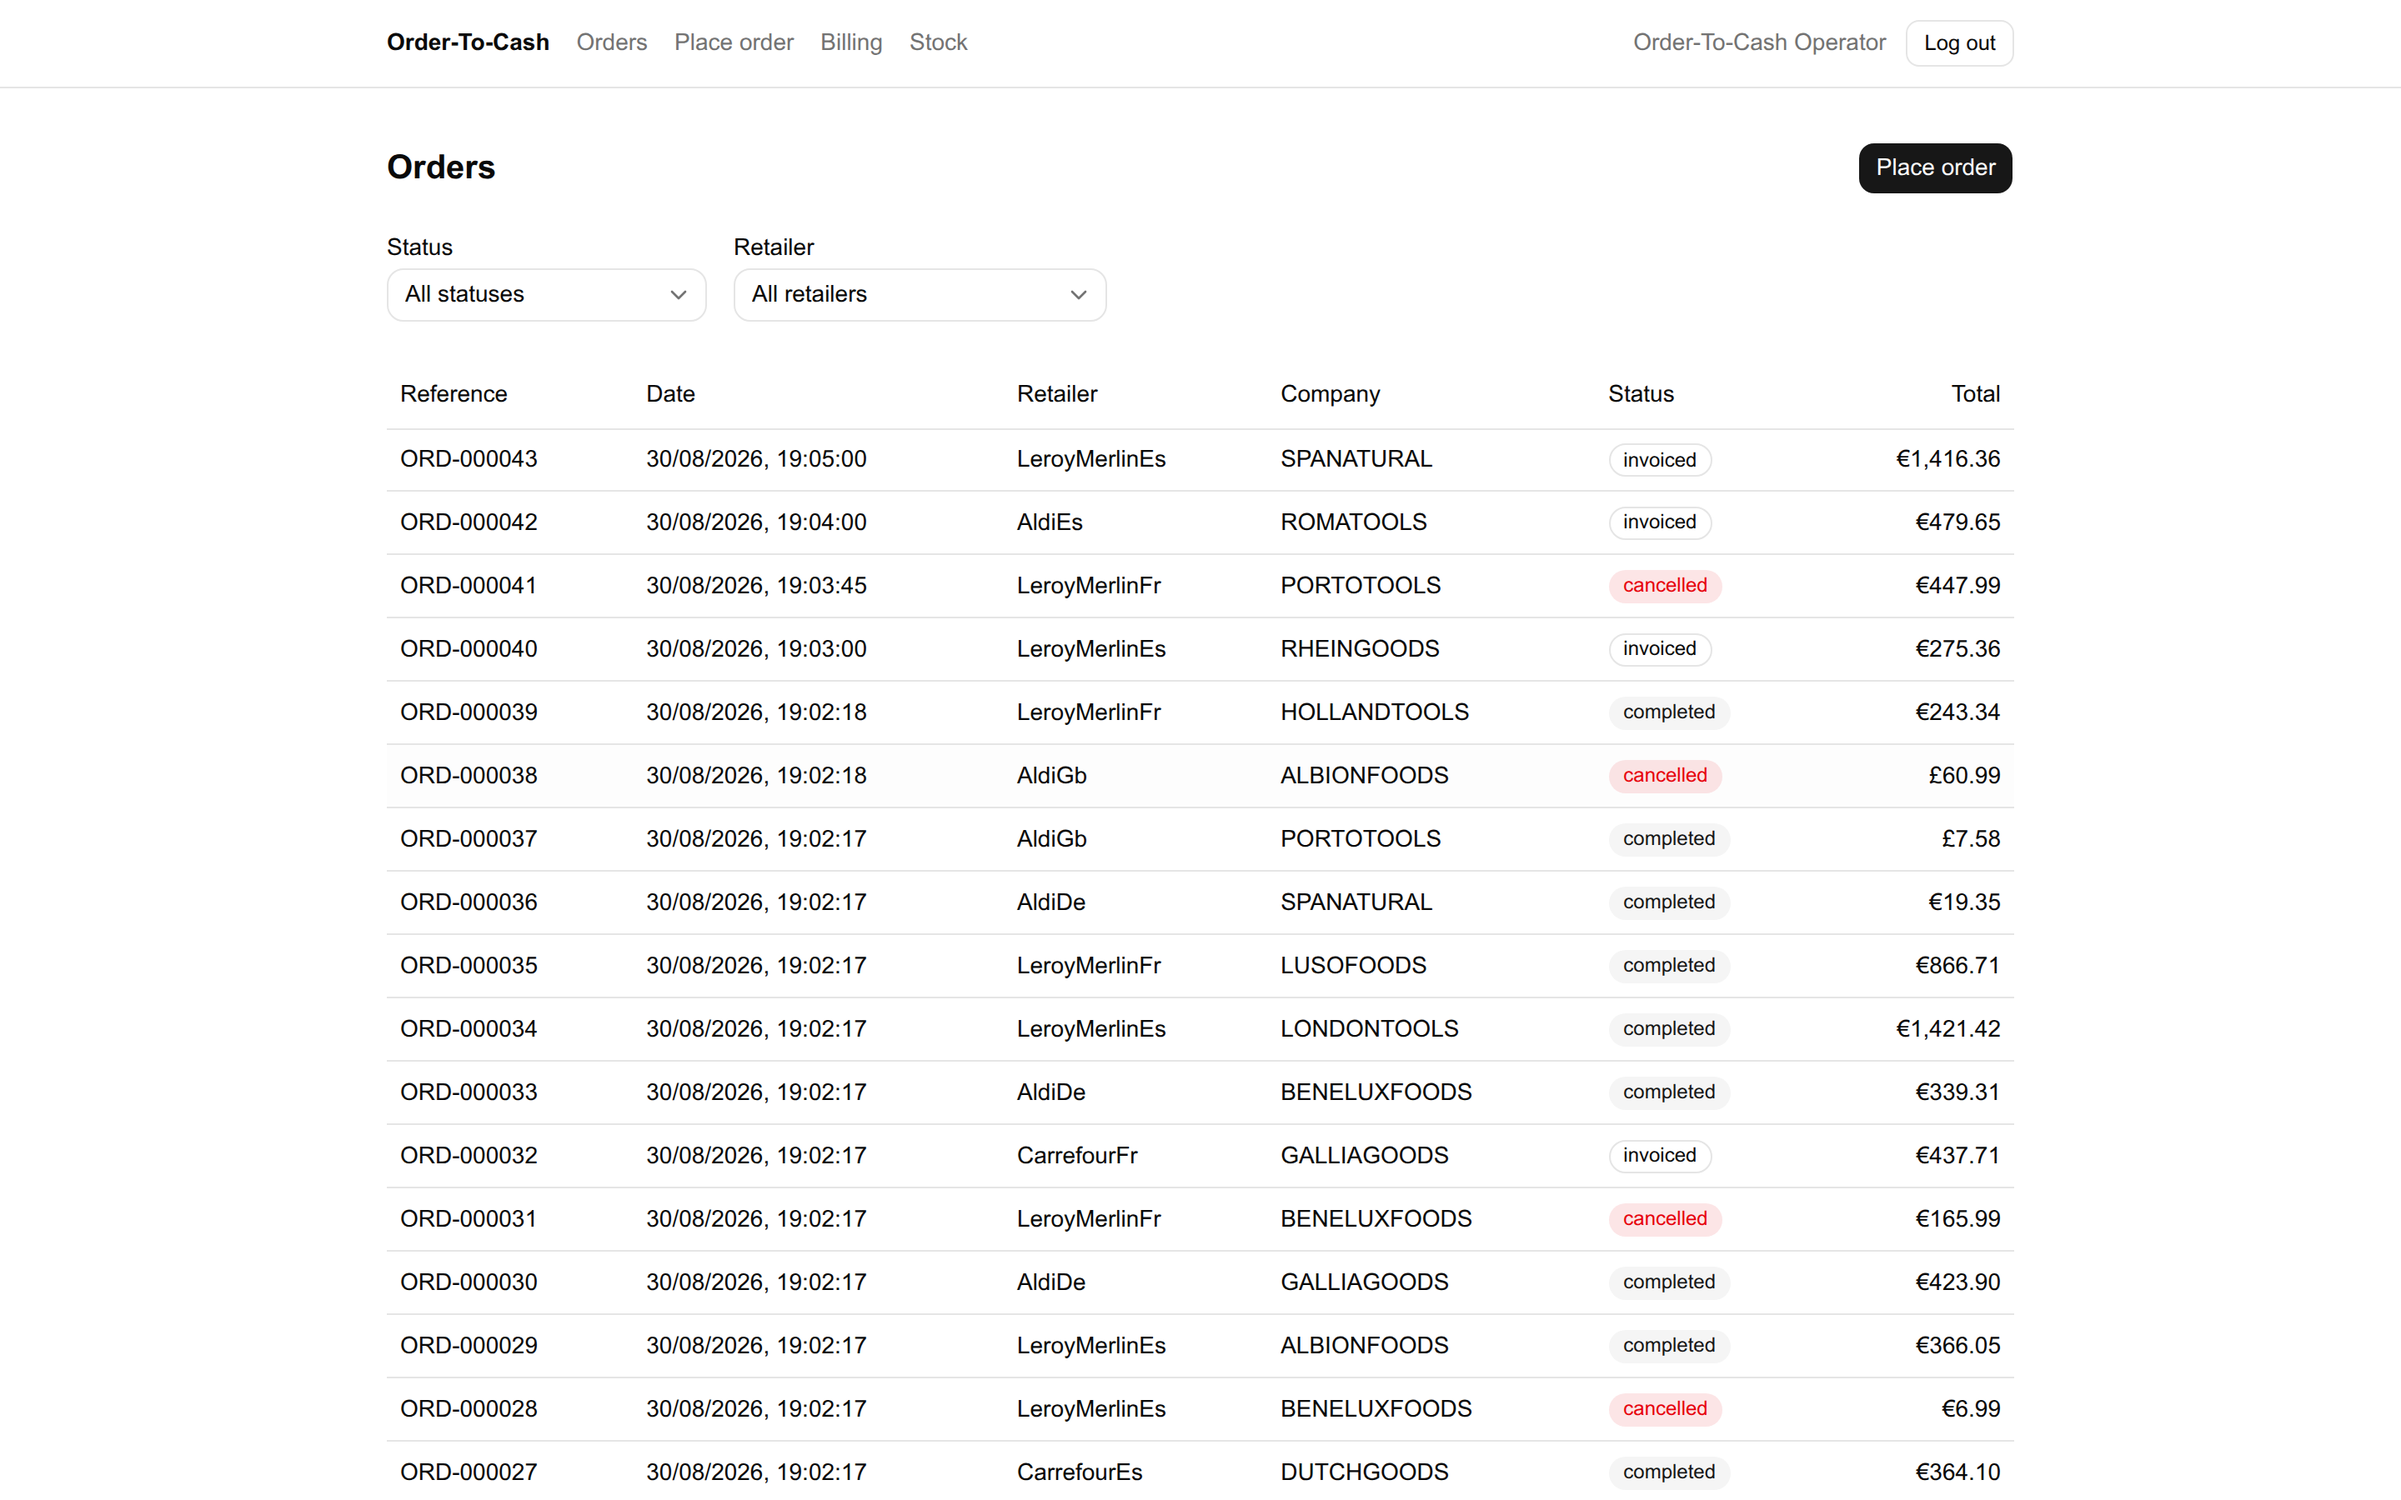
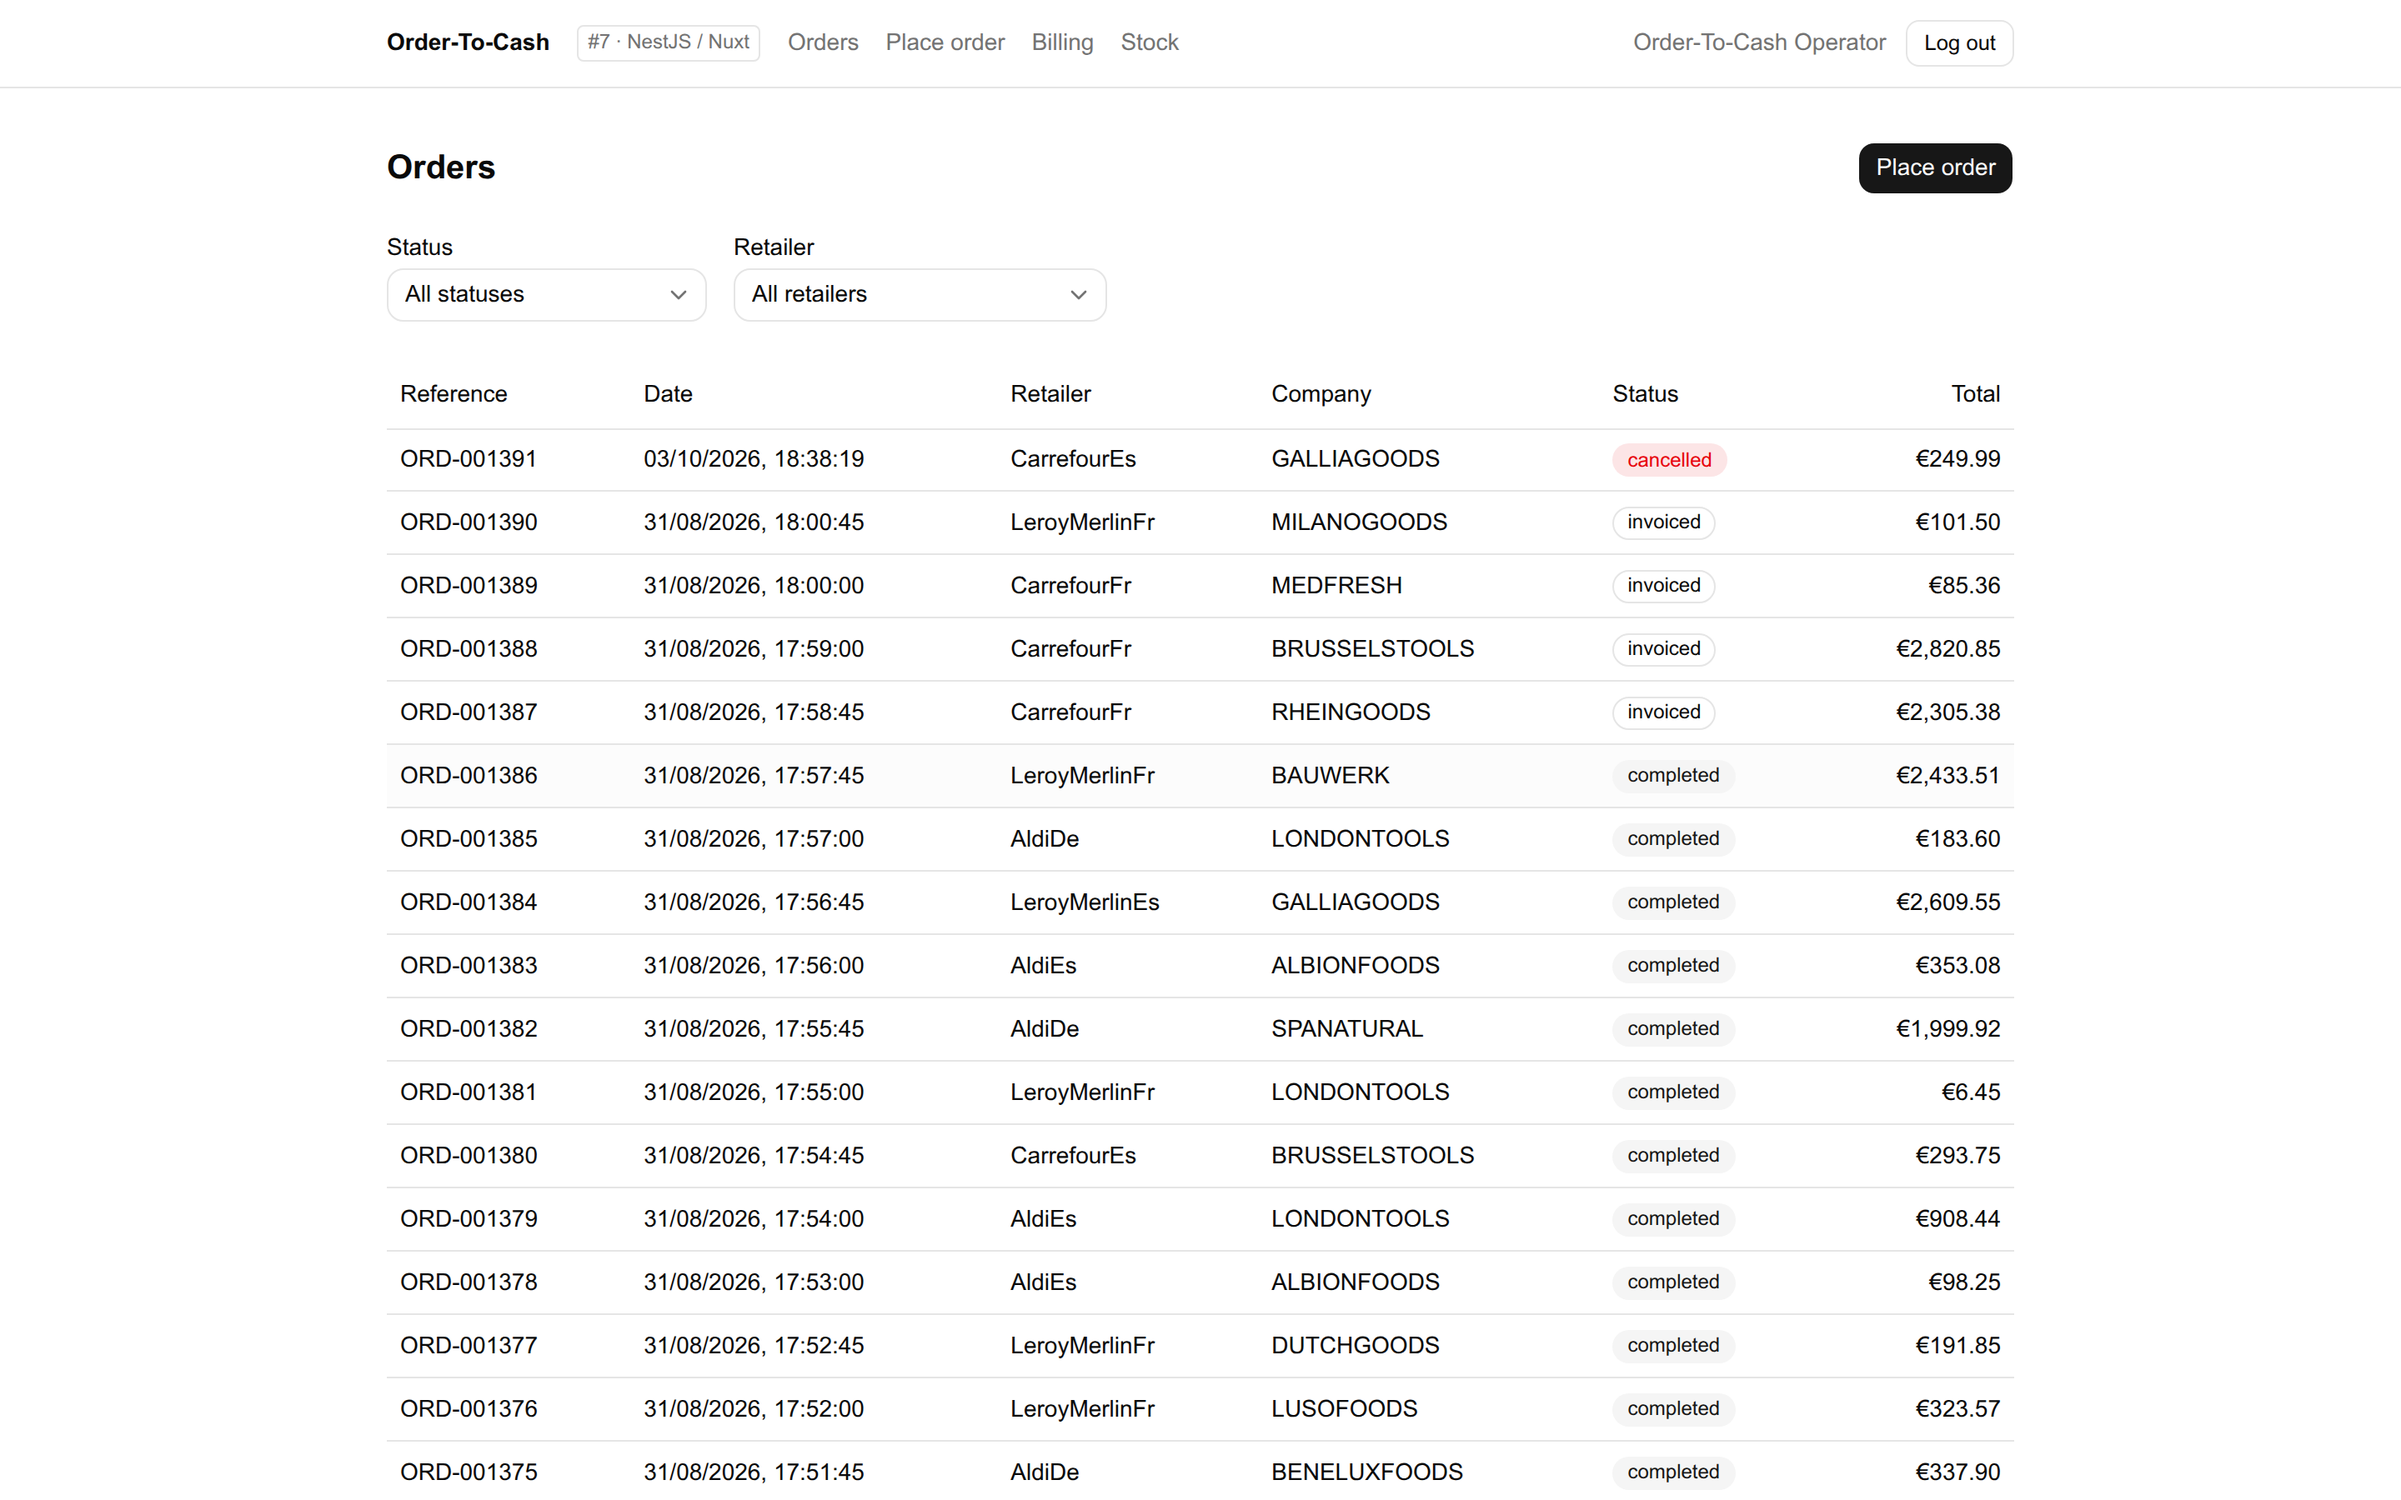
fix(infra): the Quick Start works on a clean machine, and the README media shows the stack label
What: media recaptured for the LinkedIn publication, and two defects the
recapture found. No application code and no test changed.
- docker-compose.apps.yml no longer declares otc-net external. Merged with
  the infra file, that declaration won, so Compose refused to create the
  network and `pnpm dc:up:apps` failed on any machine without a leftover
  otc-net. The network is now defined once, in the infra file; starting the
  apps file alone still fails loudly ("refers to undefined network").
  Verified from a machine with no otc-net: up exits 0 and creates it with
  Compose's own labels.
- scripts/capture-media.mjs looks orders up with the API's orderReference
  filter instead of walking a capped page list, which skipped both seeded
  timelines on a stack with over a thousand orders.
- The six web screenshots and demo-compensation.gif regenerated; they now
  show the "#7 · NestJS / Nuxt" header label. Jaeger, Grafana and Mailpit
  kept from August on purpose.
- README's network paragraph and progress/history.md updated to match.

Packages installed: none.

diff --git a/progress/history.md b/progress/history.md
@@ -1605,3 +1605,16 @@ A redrive operator reading the header would get different instants from the two 
 **Still open, carried from the SA-4 guard entry:** no end-to-end test here of a `credit.approved.v1` arriving after an accepted operator cancellation.
 
 **Verification:** `./init.sh` exit 0.
+
+
+## Post-close: README media recaptured, and the Quick Start fixed for a clean machine — 2026-10-03
+
+**Effort:** n/a — media and tooling, no application code and no test changed. One session, at the maintainer's request, to bring the README's images up to date for the LinkedIn publication.
+
+**What was asked.** The screenshots and the demo GIF dated from 30 August and predated the `#7 · NestJS / Nuxt` label added to the web header on 17 September. Regenerated with `pnpm media:demo` and `pnpm media:capture` against the rebuilt stack: the six web screenshots and `demo-compensation.gif` (960 × 600, 99 frames, ending on the cancelled `.99` order). The Jaeger, Grafana and Mailpit images were deliberately kept from August: they do not show the web header, and a freshly restarted stack makes Grafana and Mailpit nearly empty, which would have been a worse picture of the same thing.
+
+**Defect 1 — the README's Quick Start failed on a clean machine.** `pnpm dc:up:apps` stopped at once with *"network otc-net declared as external, but could not be found"*. `docker-compose.apps.yml` declared `otc-net` as `external: true` so that starting it alone would fail loudly; but when the two files are merged that declaration wins over the infra file's definition, so Compose refused to **create** the network even with both files passed. It had only ever worked on machines where an earlier infra-only start had left the network behind — and an external network survives `down`, so Phase 23's cold cycles (`down -v` then `up`) could never have noticed. Fixed by removing the apps file's top-level `networks:` block: the network is defined once, in the infra file. Verified both ways: from a machine with no `otc-net`, `up` exits 0 and creates it with Compose's own labels (`otc/otc-net`, which the SonarQube profile needs); and the apps file alone still fails loudly, now with *"refers to undefined network otc-net"*.
+
+**Defect 2 — the capture script silently skipped both order timelines.** It resolved `ORD-000005` and `ORD-000006` by walking `GET /orders` newest first with a 40-page cap, and a stack the n8n generator has fed holds well over a thousand orders, so both seeded orders sat past the cap and the shots were skipped with only a log line. It now uses the API's own `orderReference` filter, so the lookup is independent of how many orders exist.
+
+**The lesson worth carrying.** Both defects were invisible to every check this repository runs: the Quick Start is not executed by any test, and the capture script is deliberately not a test. Each was found only by doing the documented thing from a state nobody had tried — a machine without the network, a stack with a realistic number of orders. A cold-cycle check is only cold if it starts from what a stranger has, not from what the last run left behind.

diff --git a/README.md b/README.md
@@ -348,7 +348,7 @@ pnpm dc:up:apps    # docker compose -f docker-compose.infra.yml -f docker-compos
                     # migration jobs + 6 NestJS services + the web app
 ```
 
-Always pass **both** compose files together (`dc:up:apps` already does) — `docker-compose.apps.yml`'s own network is declared `external: true`, so starting it alone fails loudly ("network otc-net not found") instead of silently creating a second, disconnected network. `docker compose ... down` tears down both layers together the same way.
+Always pass **both** compose files together (`dc:up:apps` already does). `otc-net` is defined only in `docker-compose.infra.yml`, so starting the apps file alone fails loudly ("refers to undefined network otc-net") instead of silently creating a second, disconnected network; together, the first `up` on a clean machine creates it. `docker compose ... down` tears down both layers together the same way.
 
 | App | URL | Depends on (startup order) |
 |---|---|---|
